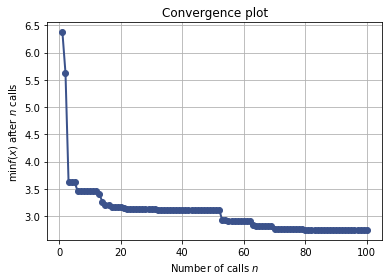
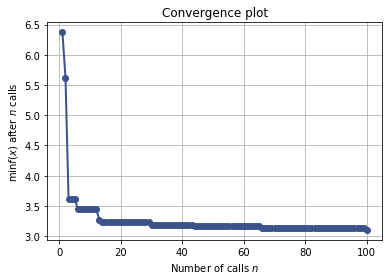
Pushing the docs for revision for branch: master, commit 3d8514b49400e9cec6e18a93bcace601c5478179

Changed region(s): [[0.0612, 0.1714, 0.9796, 0.8571], [0.0612, 0.0571, 0.1224, 0.1143]]

diff --git a/notebooks/bayesian-optimization.html b/notebooks/bayesian-optimization.html
@@ -1223,50 +1223,50 @@ controlling the exploration-exploitation trade-off.
              kernel=1**2 * Matern(length_scale=1, nu=2.5) + WhiteKernel(noise_level=0.01),
              n_restarts_optimizer=2, noise=0.010000000000000002,
              normalize_y=True, optimizer=&#39;fmin_l_bfgs_b&#39;,
-             random_state=&lt;mtrand.RandomState object at 0x7f2a1827aaf8&gt;), GaussianProcessRegressor(alpha=0.0, copy_X_train=True,
+             random_state=&lt;mtrand.RandomState object at 0x7fe5b3fbe750&gt;), GaussianProcessRegressor(alpha=0.0, copy_X_train=True,
              kernel=1**2 * Matern(length_scale=1, nu=2.5) + WhiteKernel(noise_level=0.01),
              n_restarts_optimizer=2, noise=0.010000000000000002,
              normalize_y=True, optimizer=&#39;fmin_l_bfgs_b&#39;,
-             random_state=&lt;mtrand.RandomState object at 0x7f2a18288750&gt;), GaussianProcessRegressor(alpha=0.0, copy_X_train=True,
+             random_state=&lt;mtrand.RandomState object at 0x7fe5b3fc73a8&gt;), GaussianProcessRegressor(alpha=0.0, copy_X_train=True,
              kernel=1**2 * Matern(length_scale=1, nu=2.5) + WhiteKernel(noise_level=0.01),
              n_restarts_optimizer=2, noise=0.010000000000000002,
              normalize_y=True, optimizer=&#39;fmin_l_bfgs_b&#39;,
-             random_state=&lt;mtrand.RandomState object at 0x7f2a18288b40&gt;), GaussianProcessRegressor(alpha=0.0, copy_X_train=True,
+             random_state=&lt;mtrand.RandomState object at 0x7fe5b3fc7798&gt;), GaussianProcessRegressor(alpha=0.0, copy_X_train=True,
              kernel=1**2 * Matern(length_scale=1, nu=2.5) + WhiteKernel(noise_level=0.01),
              n_restarts_optimizer=2, noise=0.010000000000000002,
              normalize_y=True, optimizer=&#39;fmin_l_bfgs_b&#39;,
-             random_state=&lt;mtrand.RandomState object at 0x7f2a18288c60&gt;), GaussianProcessRegressor(alpha=0.0, copy_X_train=True,
+             random_state=&lt;mtrand.RandomState object at 0x7fe5b3fc7480&gt;), GaussianProcessRegressor(alpha=0.0, copy_X_train=True,
              kernel=1**2 * Matern(length_scale=1, nu=2.5) + WhiteKernel(noise_level=0.01),
              n_restarts_optimizer=2, noise=0.010000000000000002,
              normalize_y=True, optimizer=&#39;fmin_l_bfgs_b&#39;,
-             random_state=&lt;mtrand.RandomState object at 0x7f2a182921b0&gt;), GaussianProcessRegressor(alpha=0.0, copy_X_train=True,
+             random_state=&lt;mtrand.RandomState object at 0x7fe5bee1d798&gt;), GaussianProcessRegressor(alpha=0.0, copy_X_train=True,
              kernel=1**2 * Matern(length_scale=1, nu=2.5) + WhiteKernel(noise_level=0.01),
              n_restarts_optimizer=2, noise=0.010000000000000002,
              normalize_y=True, optimizer=&#39;fmin_l_bfgs_b&#39;,
-             random_state=&lt;mtrand.RandomState object at 0x7f2a1827e558&gt;), GaussianProcessRegressor(alpha=0.0, copy_X_train=True,
+             random_state=&lt;mtrand.RandomState object at 0x7fe5bee74ea0&gt;), GaussianProcessRegressor(alpha=0.0, copy_X_train=True,
              kernel=1**2 * Matern(length_scale=1, nu=2.5) + WhiteKernel(noise_level=0.01),
              n_restarts_optimizer=2, noise=0.010000000000000002,
              normalize_y=True, optimizer=&#39;fmin_l_bfgs_b&#39;,
-             random_state=&lt;mtrand.RandomState object at 0x7f2a1827a948&gt;), GaussianProcessRegressor(alpha=0.0, copy_X_train=True,
+             random_state=&lt;mtrand.RandomState object at 0x7fe5bee74798&gt;), GaussianProcessRegressor(alpha=0.0, copy_X_train=True,
              kernel=1**2 * Matern(length_scale=1, nu=2.5) + WhiteKernel(noise_level=0.01),
              n_restarts_optimizer=2, noise=0.010000000000000002,
              normalize_y=True, optimizer=&#39;fmin_l_bfgs_b&#39;,
-             random_state=&lt;mtrand.RandomState object at 0x7f2a182929d8&gt;), GaussianProcessRegressor(alpha=0.0, copy_X_train=True,
+             random_state=&lt;mtrand.RandomState object at 0x7fe5bed8f3a8&gt;), GaussianProcessRegressor(alpha=0.0, copy_X_train=True,
              kernel=1**2 * Matern(length_scale=1, nu=2.5) + WhiteKernel(noise_level=0.01),
              n_restarts_optimizer=2, noise=0.010000000000000002,
              normalize_y=True, optimizer=&#39;fmin_l_bfgs_b&#39;,
-             random_state=&lt;mtrand.RandomState object at 0x7f2a18292798&gt;), GaussianProcessRegressor(alpha=0.0, copy_X_train=True,
+             random_state=&lt;mtrand.RandomState object at 0x7fe5bed8f318&gt;), GaussianProcessRegressor(alpha=0.0, copy_X_train=True,
              kernel=1**2 * Matern(length_scale=1, nu=2.5) + WhiteKernel(noise_level=0.01),
              n_restarts_optimizer=2, noise=0.010000000000000002,
              normalize_y=True, optimizer=&#39;fmin_l_bfgs_b&#39;,
-             random_state=&lt;mtrand.RandomState object at 0x7f2a18296168&gt;)]
- random_state: &lt;mtrand.RandomState object at 0x7f2a1827a2d0&gt;
+             random_state=&lt;mtrand.RandomState object at 0x7fe5bedfc828&gt;)]
+ random_state: &lt;mtrand.RandomState object at 0x7fe5b3fb3ee8&gt;
         space: Space([Real(low=-2.0, high=2.0, prior=uniform, transform=identity)])
         specs: {&#39;args&#39;: {&#39;n_jobs&#39;: 1, &#39;kappa&#39;: 1.96, &#39;xi&#39;: 0.01, &#39;n_restarts_optimizer&#39;: 5, &#39;n_points&#39;: 10000, &#39;callback&#39;: None, &#39;verbose&#39;: False, &#39;random_state&#39;: 123, &#39;y0&#39;: None, &#39;x0&#39;: None, &#39;acq_optimizer&#39;: &#39;lbfgs&#39;, &#39;acq_func&#39;: &#39;EI&#39;, &#39;n_random_starts&#39;: 5, &#39;n_calls&#39;: 15, &#39;base_estimator&#39;: GaussianProcessRegressor(alpha=0.0, copy_X_train=True,
              kernel=1**2 * Matern(length_scale=1, nu=2.5),
              n_restarts_optimizer=2, noise=0.010000000000000002,
              normalize_y=True, optimizer=&#39;fmin_l_bfgs_b&#39;,
-             random_state=&lt;mtrand.RandomState object at 0x7f2a1826e990&gt;), &#39;dimensions&#39;: [(-2.0, 2.0)], &#39;func&#39;: &lt;function f at 0x7f2a259849d8&gt;}, &#39;function&#39;: &#39;base_minimize&#39;}
+             random_state=&lt;mtrand.RandomState object at 0x7fe5b3fb35e8&gt;), &#39;dimensions&#39;: [(-2.0, 2.0)], &#39;func&#39;: &lt;function f at 0x7fe5c1796a60&gt;}, &#39;function&#39;: &#39;base_minimize&#39;}
             x: [-0.31431138440779044]
       x_iters: [[0.785876742391447], [-0.85544266019848192], [-1.0925941857431873], [0.20525907633156537], [0.87787587914225274], [1.0930078275284341], [-1.5825827673513784], [-1.8740230637856119], [2.0], [1.5920603878809245], [-1.3948575246313788], [0.91055125717293051], [-0.38405568669965967], [-0.31431138440779044], [-0.30894059735758106]]
 </pre></div>

diff --git a/index.html b/index.html
@@ -2205,7 +2205,8 @@ http://docs.scipy.org/doc/scipy/reference/generated/scipy.optimize.OptimizeResul
                          <span class="n">n_random_starts</span><span class="o">=</span><span class="n">n_random_starts</span><span class="p">,</span>
                          <span class="n">x0</span><span class="o">=</span><span class="n">x0</span><span class="p">,</span> <span class="n">y0</span><span class="o">=</span><span class="n">y0</span><span class="p">,</span> <span class="n">random_state</span><span class="o">=</span><span class="n">random_state</span><span class="p">,</span> <span class="n">xi</span><span class="o">=</span><span class="n">xi</span><span class="p">,</span>
                          <span class="n">kappa</span><span class="o">=</span><span class="n">kappa</span><span class="p">,</span> <span class="n">acq_func</span><span class="o">=</span><span class="n">acq_func</span><span class="p">,</span>
-                         <span class="n">callback</span><span class="o">=</span><span class="n">callback</span><span class="p">,</span> <span class="n">acq_optimizer</span><span class="o">=</span><span class="s2">&quot;sampling&quot;</span><span class="p">)</span>
+                         <span class="n">verbose</span><span class="o">=</span><span class="n">verbose</span><span class="p">,</span> <span class="n">callback</span><span class="o">=</span><span class="n">callback</span><span class="p">,</span>
+                         <span class="n">acq_optimizer</span><span class="o">=</span><span class="s2">&quot;sampling&quot;</span><span class="p">)</span>
 </pre></div>
 
   </div>

diff --git a/optimizer/index.html b/optimizer/index.html
@@ -2392,7 +2392,8 @@ http://docs.scipy.org/doc/scipy/reference/generated/scipy.optimize.OptimizeResul
                          <span class="n">n_random_starts</span><span class="o">=</span><span class="n">n_random_starts</span><span class="p">,</span>
                          <span class="n">x0</span><span class="o">=</span><span class="n">x0</span><span class="p">,</span> <span class="n">y0</span><span class="o">=</span><span class="n">y0</span><span class="p">,</span> <span class="n">random_state</span><span class="o">=</span><span class="n">random_state</span><span class="p">,</span> <span class="n">xi</span><span class="o">=</span><span class="n">xi</span><span class="p">,</span>
                          <span class="n">kappa</span><span class="o">=</span><span class="n">kappa</span><span class="p">,</span> <span class="n">acq_func</span><span class="o">=</span><span class="n">acq_func</span><span class="p">,</span>
-                         <span class="n">callback</span><span class="o">=</span><span class="n">callback</span><span class="p">,</span> <span class="n">acq_optimizer</span><span class="o">=</span><span class="s2">&quot;sampling&quot;</span><span class="p">)</span>
+                         <span class="n">verbose</span><span class="o">=</span><span class="n">verbose</span><span class="p">,</span> <span class="n">callback</span><span class="o">=</span><span class="n">callback</span><span class="p">,</span>
+                         <span class="n">acq_optimizer</span><span class="o">=</span><span class="s2">&quot;sampling&quot;</span><span class="p">)</span>
 </pre></div>
 
   </div>

diff --git a/notebooks/ask-and-tell.html b/notebooks/ask-and-tell.html
@@ -1119,7 +1119,7 @@ table {
 </pre></div>
 
 
-<div class="codehilite"><pre><span></span>&lt;matplotlib.figure.Figure at 0x7f247c3554e0&gt;
+<div class="codehilite"><pre><span></span>&lt;matplotlib.figure.Figure at 0x7f884d2bc898&gt;
 </pre></div>
 
 
@@ -1198,7 +1198,7 @@ optimizer:</p>
 <div class="codehilite"><pre><span></span>          fun: -0.063856745472530174
     func_vals: array([-0.06385675])
        models: []
- random_state: &lt;mtrand.RandomState object at 0x7f247407bd38&gt;
+ random_state: &lt;mtrand.RandomState object at 0x7f884c01b360&gt;
         space: Space([Real(low=-2.0, high=2.0, prior=uniform, transform=identity)])
         specs: None
             x: [-1.3229420461664514]

diff --git a/notebooks/hyperparameter-optimization.html b/notebooks/hyperparameter-optimization.html
@@ -1164,7 +1164,7 @@ Katie Malone, August 2016</p>
 </pre></div>
 
 
-<div class="codehilite"><pre><span></span>&#39;Best score=2.7456&#39;
+<div class="codehilite"><pre><span></span>&#39;Best score=3.1033&#39;
 </pre></div>
 
 
@@ -1180,10 +1180,10 @@ Katie Malone, August 2016</p>
 
 
 <div class="codehilite"><pre><span></span>Best parameters:
-- max_depth=3
-- learning_rate=0.139013
-- max_features=6
-- min_samples_split=15
+- max_depth=5
+- learning_rate=0.196574
+- max_features=5
+- min_samples_split=100
 - min_samples_leaf=1
 </pre></div>
 

diff --git a/notebooks/strategy-comparison.html b/notebooks/strategy-comparison.html
@@ -1119,7 +1119,7 @@ table {
 </pre></div>
 
 
-<div class="codehilite"><pre><span></span>&lt;matplotlib.figure.Figure at 0x7eff59aa75c0&gt;
+<div class="codehilite"><pre><span></span>&lt;matplotlib.figure.Figure at 0x7f8e8c17cf28&gt;
 </pre></div>
 
 

diff --git a/notebooks/visualizing-results.html b/notebooks/visualizing-results.html
@@ -1119,7 +1119,7 @@ table {
 </pre></div>
 
 
-<div class="codehilite"><pre><span></span>&lt;matplotlib.figure.Figure at 0x7fe57f8e35c0&gt;
+<div class="codehilite"><pre><span></span>&lt;matplotlib.figure.Figure at 0x7efc876975c0&gt;
 </pre></div>
 
 

diff --git a/notebooks/bayesian-optimization.md b/notebooks/bayesian-optimization.md
@@ -135,50 +135,50 @@ print(res)
                  kernel=1**2 * Matern(length_scale=1, nu=2.5) + WhiteKernel(noise_level=0.01),
                  n_restarts_optimizer=2, noise=0.010000000000000002,
                  normalize_y=True, optimizer='fmin_l_bfgs_b',
-                 random_state=<mtrand.RandomState object at 0x7f2a1827aaf8>), GaussianProcessRegressor(alpha=0.0, copy_X_train=True,
+                 random_state=<mtrand.RandomState object at 0x7fe5b3fbe750>), GaussianProcessRegressor(alpha=0.0, copy_X_train=True,
                  kernel=1**2 * Matern(length_scale=1, nu=2.5) + WhiteKernel(noise_level=0.01),
                  n_restarts_optimizer=2, noise=0.010000000000000002,
                  normalize_y=True, optimizer='fmin_l_bfgs_b',
-                 random_state=<mtrand.RandomState object at 0x7f2a18288750>), GaussianProcessRegressor(alpha=0.0, copy_X_train=True,
+                 random_state=<mtrand.RandomState object at 0x7fe5b3fc73a8>), GaussianProcessRegressor(alpha=0.0, copy_X_train=True,
                  kernel=1**2 * Matern(length_scale=1, nu=2.5) + WhiteKernel(noise_level=0.01),
                  n_restarts_optimizer=2, noise=0.010000000000000002,
                  normalize_y=True, optimizer='fmin_l_bfgs_b',
-                 random_state=<mtrand.RandomState object at 0x7f2a18288b40>), GaussianProcessRegressor(alpha=0.0, copy_X_train=True,
+                 random_state=<mtrand.RandomState object at 0x7fe5b3fc7798>), GaussianProcessRegressor(alpha=0.0, copy_X_train=True,
                  kernel=1**2 * Matern(length_scale=1, nu=2.5) + WhiteKernel(noise_level=0.01),
                  n_restarts_optimizer=2, noise=0.010000000000000002,
                  normalize_y=True, optimizer='fmin_l_bfgs_b',
-                 random_state=<mtrand.RandomState object at 0x7f2a18288c60>), GaussianProcessRegressor(alpha=0.0, copy_X_train=True,
+                 random_state=<mtrand.RandomState object at 0x7fe5b3fc7480>), GaussianProcessRegressor(alpha=0.0, copy_X_train=True,
                  kernel=1**2 * Matern(length_scale=1, nu=2.5) + WhiteKernel(noise_level=0.01),
                  n_restarts_optimizer=2, noise=0.010000000000000002,
                  normalize_y=True, optimizer='fmin_l_bfgs_b',
-                 random_state=<mtrand.RandomState object at 0x7f2a182921b0>), GaussianProcessRegressor(alpha=0.0, copy_X_train=True,
+                 random_state=<mtrand.RandomState object at 0x7fe5bee1d798>), GaussianProcessRegressor(alpha=0.0, copy_X_train=True,
                  kernel=1**2 * Matern(length_scale=1, nu=2.5) + WhiteKernel(noise_level=0.01),
                  n_restarts_optimizer=2, noise=0.010000000000000002,
                  normalize_y=True, optimizer='fmin_l_bfgs_b',
-                 random_state=<mtrand.RandomState object at 0x7f2a1827e558>), GaussianProcessRegressor(alpha=0.0, copy_X_train=True,
+                 random_state=<mtrand.RandomState object at 0x7fe5bee74ea0>), GaussianProcessRegressor(alpha=0.0, copy_X_train=True,
                  kernel=1**2 * Matern(length_scale=1, nu=2.5) + WhiteKernel(noise_level=0.01),
                  n_restarts_optimizer=2, noise=0.010000000000000002,
                  normalize_y=True, optimizer='fmin_l_bfgs_b',
-                 random_state=<mtrand.RandomState object at 0x7f2a1827a948>), GaussianProcessRegressor(alpha=0.0, copy_X_train=True,
+                 random_state=<mtrand.RandomState object at 0x7fe5bee74798>), GaussianProcessRegressor(alpha=0.0, copy_X_train=True,
                  kernel=1**2 * Matern(length_scale=1, nu=2.5) + WhiteKernel(noise_level=0.01),
                  n_restarts_optimizer=2, noise=0.010000000000000002,
                  normalize_y=True, optimizer='fmin_l_bfgs_b',
-                 random_state=<mtrand.RandomState object at 0x7f2a182929d8>), GaussianProcessRegressor(alpha=0.0, copy_X_train=True,
+                 random_state=<mtrand.RandomState object at 0x7fe5bed8f3a8>), GaussianProcessRegressor(alpha=0.0, copy_X_train=True,
                  kernel=1**2 * Matern(length_scale=1, nu=2.5) + WhiteKernel(noise_level=0.01),
                  n_restarts_optimizer=2, noise=0.010000000000000002,
                  normalize_y=True, optimizer='fmin_l_bfgs_b',
-                 random_state=<mtrand.RandomState object at 0x7f2a18292798>), GaussianProcessRegressor(alpha=0.0, copy_X_train=True,
+                 random_state=<mtrand.RandomState object at 0x7fe5bed8f318>), GaussianProcessRegressor(alpha=0.0, copy_X_train=True,
                  kernel=1**2 * Matern(length_scale=1, nu=2.5) + WhiteKernel(noise_level=0.01),
                  n_restarts_optimizer=2, noise=0.010000000000000002,
                  normalize_y=True, optimizer='fmin_l_bfgs_b',
-                 random_state=<mtrand.RandomState object at 0x7f2a18296168>)]
-     random_state: <mtrand.RandomState object at 0x7f2a1827a2d0>
+                 random_state=<mtrand.RandomState object at 0x7fe5bedfc828>)]
+     random_state: <mtrand.RandomState object at 0x7fe5b3fb3ee8>
             space: Space([Real(low=-2.0, high=2.0, prior=uniform, transform=identity)])
             specs: {'args': {'n_jobs': 1, 'kappa': 1.96, 'xi': 0.01, 'n_restarts_optimizer': 5, 'n_points': 10000, 'callback': None, 'verbose': False, 'random_state': 123, 'y0': None, 'x0': None, 'acq_optimizer': 'lbfgs', 'acq_func': 'EI', 'n_random_starts': 5, 'n_calls': 15, 'base_estimator': GaussianProcessRegressor(alpha=0.0, copy_X_train=True,
                  kernel=1**2 * Matern(length_scale=1, nu=2.5),
                  n_restarts_optimizer=2, noise=0.010000000000000002,
                  normalize_y=True, optimizer='fmin_l_bfgs_b',
-                 random_state=<mtrand.RandomState object at 0x7f2a1826e990>), 'dimensions': [(-2.0, 2.0)], 'func': <function f at 0x7f2a259849d8>}, 'function': 'base_minimize'}
+                 random_state=<mtrand.RandomState object at 0x7fe5b3fb35e8>), 'dimensions': [(-2.0, 2.0)], 'func': <function f at 0x7fe5c1796a60>}, 'function': 'base_minimize'}
                 x: [-0.31431138440779044]
           x_iters: [[0.785876742391447], [-0.85544266019848192], [-1.0925941857431873], [0.20525907633156537], [0.87787587914225274], [1.0930078275284341], [-1.5825827673513784], [-1.8740230637856119], [2.0], [1.5920603878809245], [-1.3948575246313788], [0.91055125717293051], [-0.38405568669965967], [-0.31431138440779044], [-0.30894059735758106]]
 

diff --git a/notebooks/ask-and-tell.md b/notebooks/ask-and-tell.md
@@ -14,7 +14,7 @@ plt.set_cmap("viridis")
 ```
 
 
-    <matplotlib.figure.Figure at 0x7f247c3554e0>
+    <matplotlib.figure.Figure at 0x7f884d2bc898>
 
 
 Bayesian optimization is used to tune parameters for walking robots or other experiments
@@ -113,7 +113,7 @@ opt.tell(next_x, f_val)
               fun: -0.063856745472530174
         func_vals: array([-0.06385675])
            models: []
-     random_state: <mtrand.RandomState object at 0x7f247407bd38>
+     random_state: <mtrand.RandomState object at 0x7f884c01b360>
             space: Space([Real(low=-2.0, high=2.0, prior=uniform, transform=identity)])
             specs: None
                 x: [-1.3229420461664514]

diff --git a/notebooks/hyperparameter-optimization.md b/notebooks/hyperparameter-optimization.md
@@ -72,7 +72,7 @@ res_gp = gp_minimize(objective, space, n_calls=100, random_state=0)
 
 
 
-    'Best score=2.7456'
+    'Best score=3.1033'
 
 
 
@@ -89,10 +89,10 @@ print("""Best parameters:
 ```
 
     Best parameters:
-    - max_depth=3
-    - learning_rate=0.139013
-    - max_features=6
-    - min_samples_split=15
+    - max_depth=5
+    - learning_rate=0.196574
+    - max_features=5
+    - min_samples_split=100
     - min_samples_leaf=1
 
 

diff --git a/notebooks/strategy-comparison.md b/notebooks/strategy-comparison.md
@@ -14,7 +14,7 @@ plt.set_cmap("viridis")
 ```
 
 
-    <matplotlib.figure.Figure at 0x7eff59aa75c0>
+    <matplotlib.figure.Figure at 0x7f8e8c17cf28>
 
 
 Bayesian optimization or sequential model-based optimization uses a surrogate model

diff --git a/notebooks/visualizing-results.md b/notebooks/visualizing-results.md
@@ -14,7 +14,7 @@ plt.set_cmap("viridis")
 ```
 
 
-    <matplotlib.figure.Figure at 0x7fe57f8e35c0>
+    <matplotlib.figure.Figure at 0x7efc876975c0>
 
 
 Bayesian optimization or sequential model-based optimization uses a surrogate model
